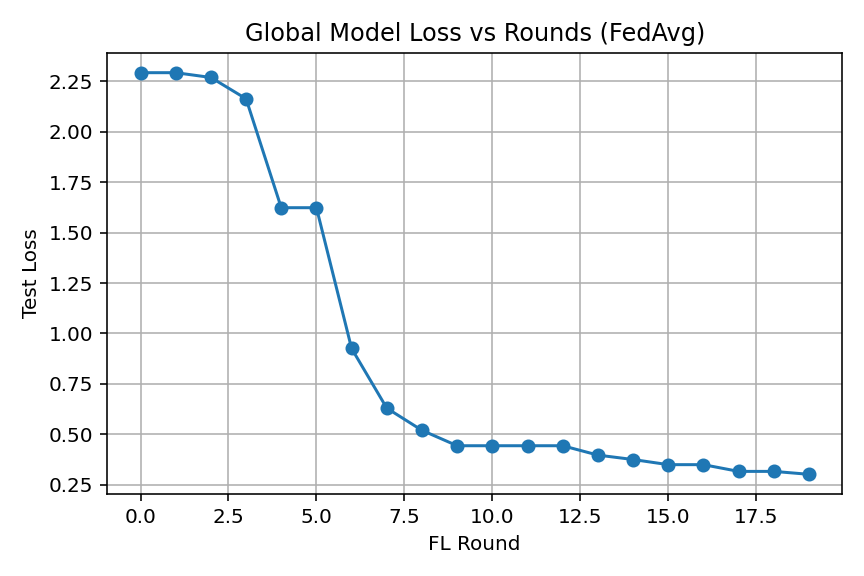
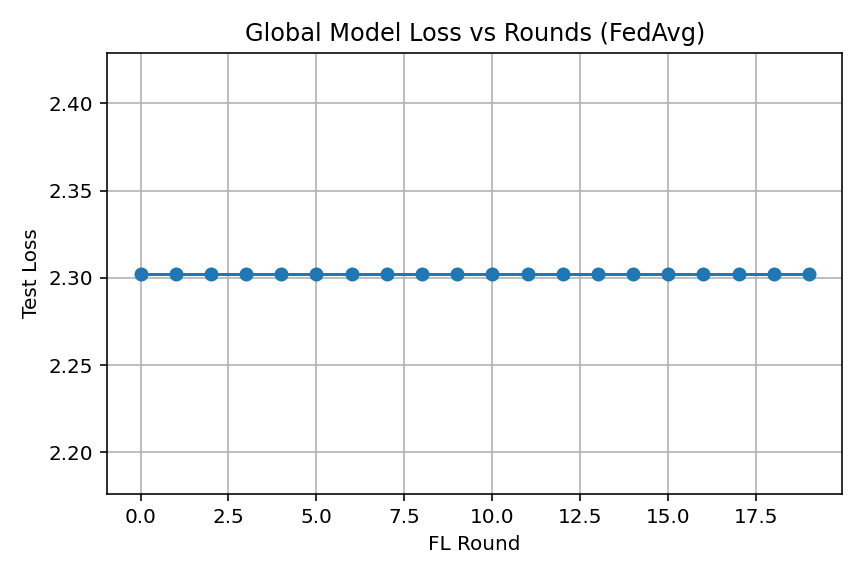
updated main.py

Changed region(s): [[0.0625, 0.3125, 0.9688, 0.875], [0.0625, 0.0938, 0.9688, 0.2812]]

diff --git a/main.py b/main.py
@@ -33,23 +33,23 @@ def main():
     
 # ---- Initialize scenario (outside the FL loop) ----
     x_bs, y_bs, h_bs = 0.0, 0.0, 25.0          # BS location
-    h_min, h_max = 50.0, 200.0                # UAV altitude bounds
+    h_min, h_max = 50.0, 600.0                # UAV altitude bounds
     x_uav, y_uav = init_uav_positions(args.total_UE)
     h_uav = init_altitudes(args.total_UE, h_min, h_max)
     
     # Channel parameters (highrise urban example)
     # Channel parameters (DEBUG-FRIENDLY)
-    a, b = 9.61, 0.16          # highrise-urban (Al-Hourani)
+    a, b = 27.23, 0.08       # highrise-urban (Al-Hourani)
     fc = 2e9                  # 2 GHz
     alpha = 2.0               # pathloss exponent
     # Transmit power and noise (dBm)
-    P_tx_dbm = 20.0      # 100 mW UAV uplink
+    P_tx_dbm = 30.0      # 100 mW UAV uplink
     noise_dbm = -130.0  # thermal noise + NF
     
     # Path loss parameters
     alpha = 2.2
-    eta1_db = 1.0       # LoS excess loss
-    eta2_db = 20.0      # NLoS excess loss
+    eta1_db = 2.3      # LoS excess loss
+    eta2_db = 34.0      # NLoS excess loss
     fc = 2e9            # 2 GHz
     
     # ---- FL learning loop ----
@@ -64,7 +64,8 @@ def main():
         P_LoS = plos(theta, a, b)
         PL_db = avg_pathloss_db(d, P_LoS, fc, alpha, eta1_db, eta2_db)
         snr_db = snr_from_pathloss_db(P_tx_dbm, PL_db, noise_dbm)
-        p_succ = (snr_db >= 15.0).astype(float)   # threshold in dB
+        p_succ = (snr_db >= 20.0).astype(float)   # threshold in dB
+        
         # ---- DEBUG (put it HERE) ----
         print(f"\n[Round {r:02d}] Per-UAV Channel Stats:")
         print("UAV | Height (m) | Elevation (deg) |  P_LoS  |  PL_avg (dB) |  SNR (dB)")

diff --git a/UE_Selection/UAV_scenario.py b/UE_Selection/UAV_scenario.py
@@ -1,6 +1,6 @@
 import numpy as np
 
-def init_uav_positions(N, area_size=1000):
+def init_uav_positions(N, area_size=500):
     # fixed horizontal positions
     x = np.random.uniform(-area_size/2, area_size/2, N)
     y = np.random.uniform(-area_size/2, area_size/2, N)
